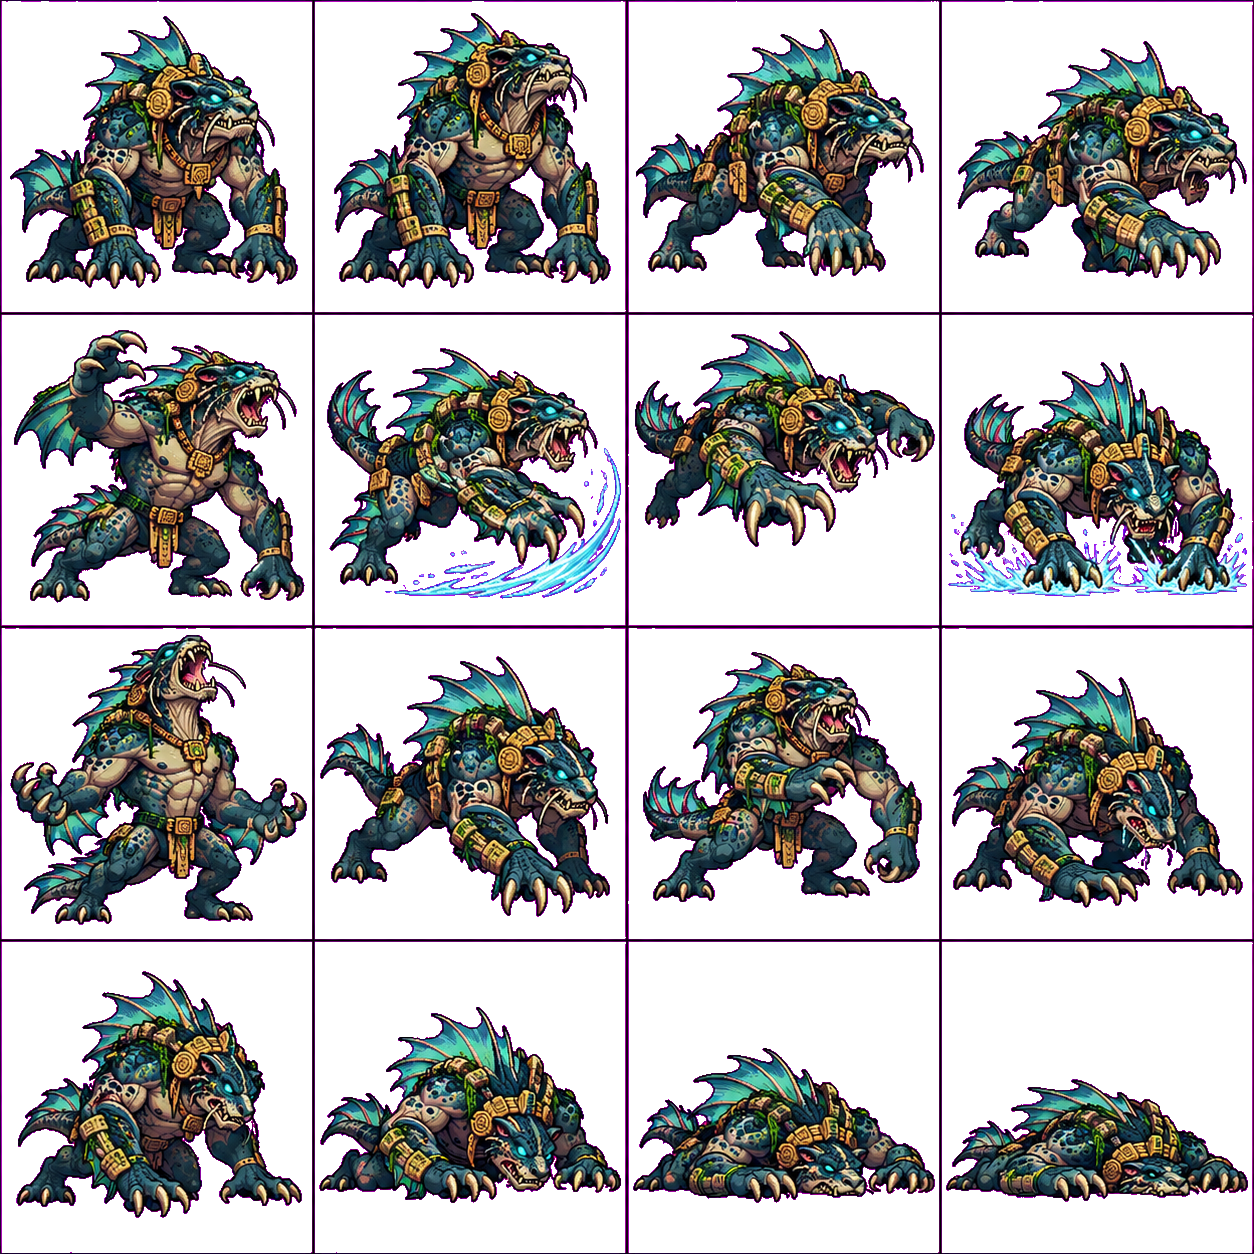
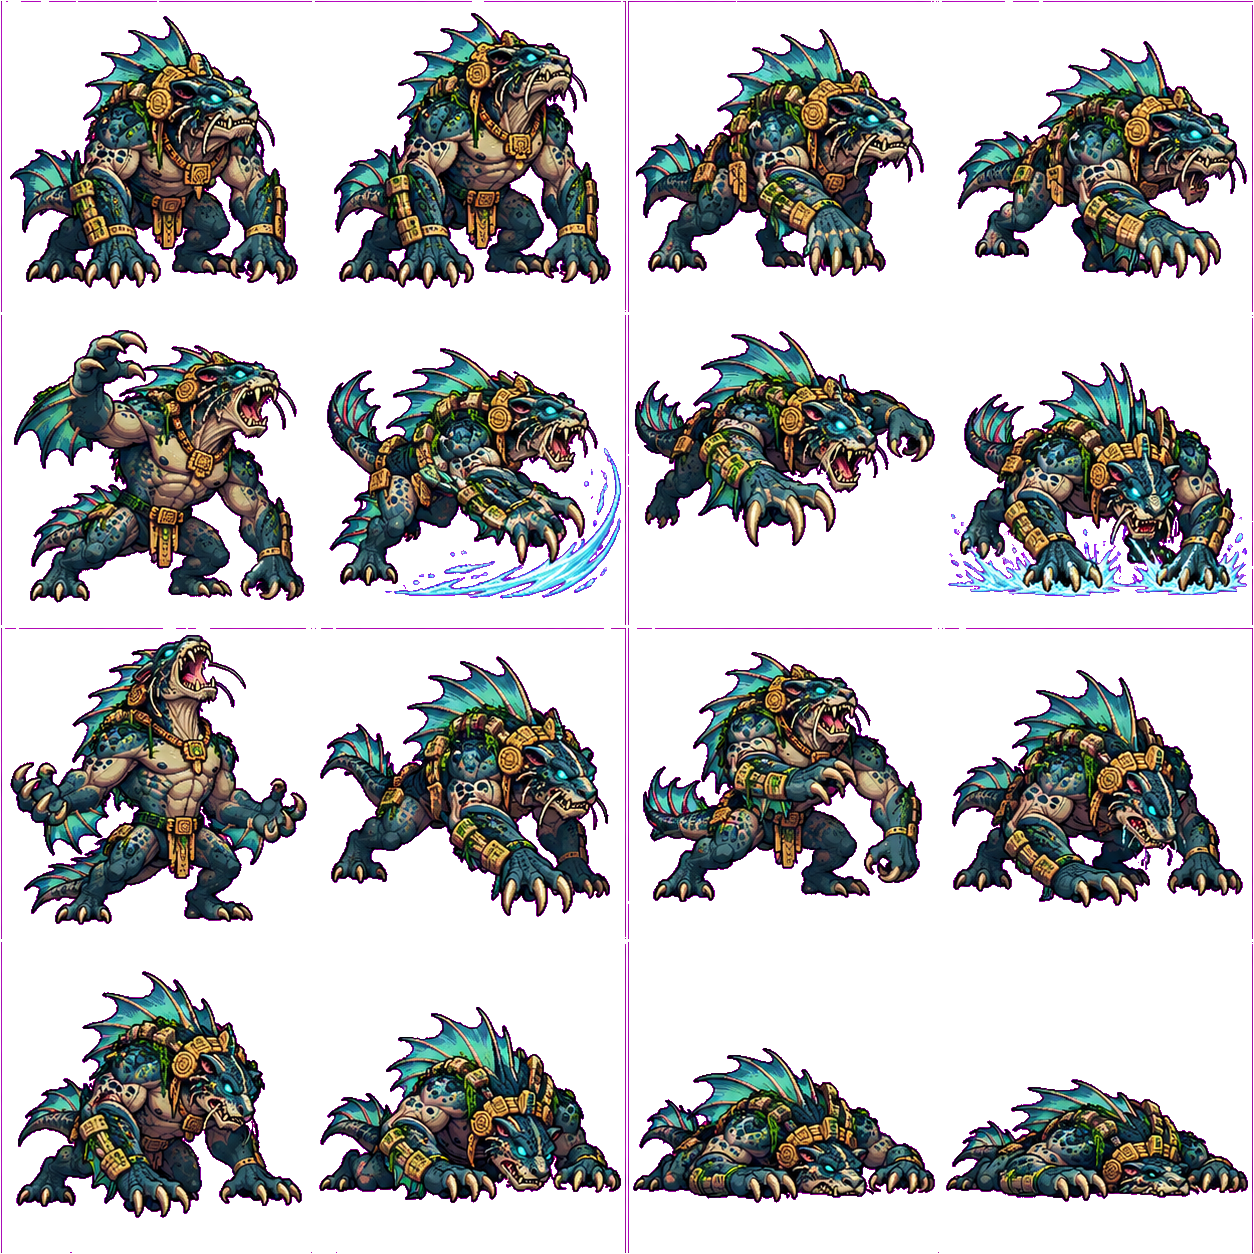
Fix chapter bosses: Stage 5 boss falling out of the world, frozen brutes, wrong poses, instant deaths
- Chapter bosses spawn on the real floor (Stage 5's temple floor is higher, so
  the Siege Warlord spawned inside it, was pushed past the level end and fell
  forever, making Stage 5 unwinnable)
- Brute-based bosses (Stage 3 Abomination, Stage 5 Warlord) start in their
  roar state so their AI runs; before they stood frozen in 'idle'
- Per-boss frame maps: the Iron Captain no longer shows his hurt pose when he
  attacks or a death pose when hit; Captain/Guardian/Abomination walks no
  longer flash attack and special poses
- Boss deaths play their 3-4 frame fall, then fade (bodies stay 3.3s)
- Brute chapter bosses no longer use the alchemist's toxic green explosion
- Removed the purple grid lines baked into the Stage 3 boss sheet

Claude-Session: https://claude.ai/code/session_01T4Ncn1ihgTr1NAgQFywcZ6

diff --git a/game.js b/game.js
@@ -392,6 +392,7 @@ function damageEnemy(e,dmg,src){if(e.dead||e.hp<=0)return;if(e.type==='bcore'&&b
   else if(['cannon','bcannon','jaguar'].includes(e.type))boom(e.x,e.y-20,1.4);
   else if(e.type==='bcore'){bossDefeated()}
   else if(e.type==='stasis'||e.type==='minibrute'){fxStrip('fx_boom',e.x,e.y,e.type==='stasis'?200:130,.8);SFX.boom()}
+  else if(e.type==='brute'&&e.bossSprite&&stageNum!==6){spark(e.x,e.y-40,'#e8c48a',30,240);spark(e.x,e.y-70,'#ffb36b',16,200)}
   else if(e.type==='sci'||e.type==='brute'){spark(e.x,e.y-60,'#c8ff6a',30,260);fxStrip('fx_boom',e.x,e.y,220,.9);boom(e.x,e.y-60,1.5);if(boss&&boss.kind===2&&boss.sci.dead&&boss.brute&&boss.brute.dead)bossDefeated()}
   else if(['totem','arrow','pod','boulder','cauldron'].includes(e.type))boom(e.x,e.y-50,1.1)
   else if(e.type==='tank'){boom(e.x,e.y-80,1);fxStrip('fx_boom',e.x,e.y,190,.8);spark(e.x,e.y-80,'#9dff4a',30,280,4);medals.push({x:e.x,y:e.y-90,vx:-80,vy:-380,l:pick(['S','M','F','L','B']),w:30,h:26,onGround:false,taken:false,t:0})}
@@ -405,7 +406,7 @@ function updateEnemy(e,dt){
  const p=nearestPlayer(e.x,e.y-40);
  if(e.dead){e.deadT+=dt;if(['runner','rifle','cross','sniper','wallman','panther','jaguar','pike','serpent','leopard','sci','brute','minibrute'].includes(e.type)){e.vy+=GRAV*dt;e.x+=e.vx*dt;e.y+=e.vy*dt;{const g=groundAt(e.x);if(g!==null&&e.y>g&&e.vy>0&&e.y-g<40){e.y=g;e.vy=0;e.vx=0}}}
   else if(e.type==='eagle'||e.type==='bat'){e.vy+=GRAV*.6*dt;e.y+=e.vy*dt;e.x+=e.vx*dt}
-  return e.deadT>(['cannon','bcannon','totem','arrow','pod'].includes(e.type)?999:1.3)}
+  return e.deadT>(['cannon','bcannon','totem','arrow','pod'].includes(e.type)?999:e.bossSprite?3.3:1.3)}
  // Normal enemies have short, readable recoil; boss wind-ups are not chain-stunnable.
  if(e.stun>0){
    e.stun=Math.max(0,e.stun-dt);
@@ -549,7 +550,7 @@ function startChapterBoss(){
  const name=stageNum===2?'THE IRON CAPTAIN':STG.bossName;
  const typ=stageNum===4?'jaguar':stageNum===3?'brute':stageNum===5?'brute':'pike';
  boss={kind:3,t:0,dead:false,deadT:0,name,adds:3,addT:COMBAT_BALANCE[stageNum].adds};musicTrack='boss';seqStep=0;
- const e=spawn(typ,ARENA_X+W-220,430,{dir:-1,st:1.3,hp:COMBAT_BALANCE[stageNum].hp,max:COMBAT_BALANCE[stageNum].hp,bossSprite:'boss'+stageNum});
+ const bx=ARENA_X+W-220,e=spawn(typ,bx,groundAt(bx)??430,{dir:-1,st:1.3,state:typ==='brute'?'roar':'idle',hp:COMBAT_BALANCE[stageNum].hp,max:COMBAT_BALANCE[stageNum].hp,bossSprite:'boss'+stageNum});
  boss.actor=e;showBanner('BOSS ENCOUNTER',name,3);shake=8;SFX.roar();
 }
 // V4.2 — Unique, telegraphed signature attacks for bosses in chapters 2–6.
@@ -1092,7 +1093,13 @@ function drawEnemyTell(e){
  }
  ctx.restore();
 }
-function drawEnemy(e){ctx.save();if(!e.dead&&!e.bossSprite&&e.onGround&&Math.abs(e.vx||0)>22&&e.type!=='boulder'&&e.type!=='capsule')ctx.translate(0,Math.sin(e.gait*Math.PI*.5)*1.25);if(e.hurt>0&&!e.dead)ctx.translate((e.hitSide||1)*Math.sin((.22-e.hurt)*38)*3,0);if(e.garrison&&!e.dead){R(e.x-26,e.y-128,52,5,'#2a120c');R(e.x-26,e.y-128,52*e.hp/e.max,5,'#ff6a4a')}const fl=e.hurt>0;const a=e.dead?clamp(1.4-e.deadT,0,1):1;if(a<=0){ctx.restore();return}sprFlash=fl&&!e.dead;if(e.bossSprite){const f=e.dead?15:e.hurt>0?12:e.specialPhase==='wind'?8:e.specialT>0?10:e.state==='pound'||e.state==='slash'||e.state==='thrust'||e.state==='beam'?10:['poundW','wind','windDash','chargeW','beamW'].includes(e.state)||e.phase==='beamW'?8:Math.abs(e.vx)>5?[4,5,6,7][Math.floor(e.gait)%4]:Math.floor(e.anim*2)%4;spr(e.bossSprite,f,e.x+(fl?-e.dir*Math.min(4,e.hurt*22):0),e.y,stageNum===3?205:stageNum===5?194:175,e.dir<0,a);if(fl&&!e.dead){ctx.save();ctx.globalCompositeOperation='lighter';ctx.globalAlpha=.45;circ(e.x,e.y-95,45,'#ffcf7a');ctx.restore()}if(!e.dead){R(e.x-65,e.y-205,130,8,'#2a120c');R(e.x-64,e.y-204,128*Math.max(0,e.hp)/e.max,6,'#ff6a4a')}drawEnemyTell(e);sprFlash=false;ctx.restore();return}
+// Which of each boss sheet's 16 cells is which pose (0-3 row 1 ... 12-15 row 4).
+const BOSS_FRAMES={boss2:{idle:[0,1],walk:[2,3,4,5],wind:6,atk:[7,8],hurt:10,die:[12,13,14,15]},
+ boss3:{idle:[0,1],walk:[2,3,9,10],wind:8,atk:[5,6],pound:7,hurt:11,die:[12,13,14,15]},
+ boss4:{idle:[0,1],walk:[2,3],wind:4,atk:[5,6],special:7,hurt:12,die:[13,14,15]},
+ boss5:{idle:[0,1,2,3],walk:[4,5,6,7],wind:9,atk:[10],pound:11,hurt:12,die:[13,14,15]},
+ boss6:{idle:[0,1,2,3],walk:[4,5,6,7],wind:8,atk:[9,10],special:11,hurt:12,die:[13,14,15]}};
+function drawEnemy(e){ctx.save();if(!e.dead&&!e.bossSprite&&e.onGround&&Math.abs(e.vx||0)>22&&e.type!=='boulder'&&e.type!=='capsule')ctx.translate(0,Math.sin(e.gait*Math.PI*.5)*1.25);if(e.hurt>0&&!e.dead)ctx.translate((e.hitSide||1)*Math.sin((.22-e.hurt)*38)*3,0);if(e.garrison&&!e.dead){R(e.x-26,e.y-128,52,5,'#2a120c');R(e.x-26,e.y-128,52*e.hp/e.max,5,'#ff6a4a')}const fl=e.hurt>0;const a=e.dead?clamp((e.bossSprite?3.2:1.4)-e.deadT,0,1):1;if(a<=0){ctx.restore();return}sprFlash=fl&&!e.dead;if(e.bossSprite){const M=BOSS_FRAMES[e.bossSprite],cyc=(l,r)=>l[Math.floor(r)%l.length],atk=['pound','slash','thrust','beam','charge','dash'].includes(e.state);const f=e.dead?M.die[Math.min(M.die.length-1,Math.floor(e.deadT*6))]:e.hurt>0?M.hurt:e.specialPhase==='wind'?M.wind:e.specialT>0?(M.special??cyc(M.atk,e.anim*8)):e.state==='pound'&&M.pound!=null?M.pound:atk?cyc(M.atk,e.anim*8):['poundW','wind','windDash','chargeW','beamW'].includes(e.state)||e.phase==='beamW'?M.wind:Math.abs(e.vx)>5?cyc(M.walk,e.gait):cyc(M.idle,e.anim*2);spr(e.bossSprite,f,e.x+(fl?-e.dir*Math.min(4,e.hurt*22):0),e.y,stageNum===3?205:stageNum===5?194:175,e.dir<0,a);if(fl&&!e.dead){ctx.save();ctx.globalCompositeOperation='lighter';ctx.globalAlpha=.45;circ(e.x,e.y-95,45,'#ffcf7a');ctx.restore()}if(!e.dead){R(e.x-65,e.y-205,130,8,'#2a120c');R(e.x-64,e.y-204,128*Math.max(0,e.hp)/e.max,6,'#ff6a4a')}drawEnemyTell(e);sprFlash=false;ctx.restore();return}
  switch(e.type){
  case'runner':{const f=e.dead?14:e.hurt>0?12:!e.onGround?13:[2,3,4,5][Math.floor(e.gait)%4];spr('soldier',f,e.x,e.y,112,e.dir<0,a);break}
  case'rifle':case'wallman':{let f=e.dead?(e.deadT<.4?14:15):e.hurt>0?12:e.fireT>0?7:e.aimT>0?6:e.walking?[2,3,4,5][Math.floor(e.gait)%4]:(e.cd<.6?6:Math.floor(e.anim*2)%2);spr('soldier',f,e.x,e.y,112,e.dir<0,a);break}
